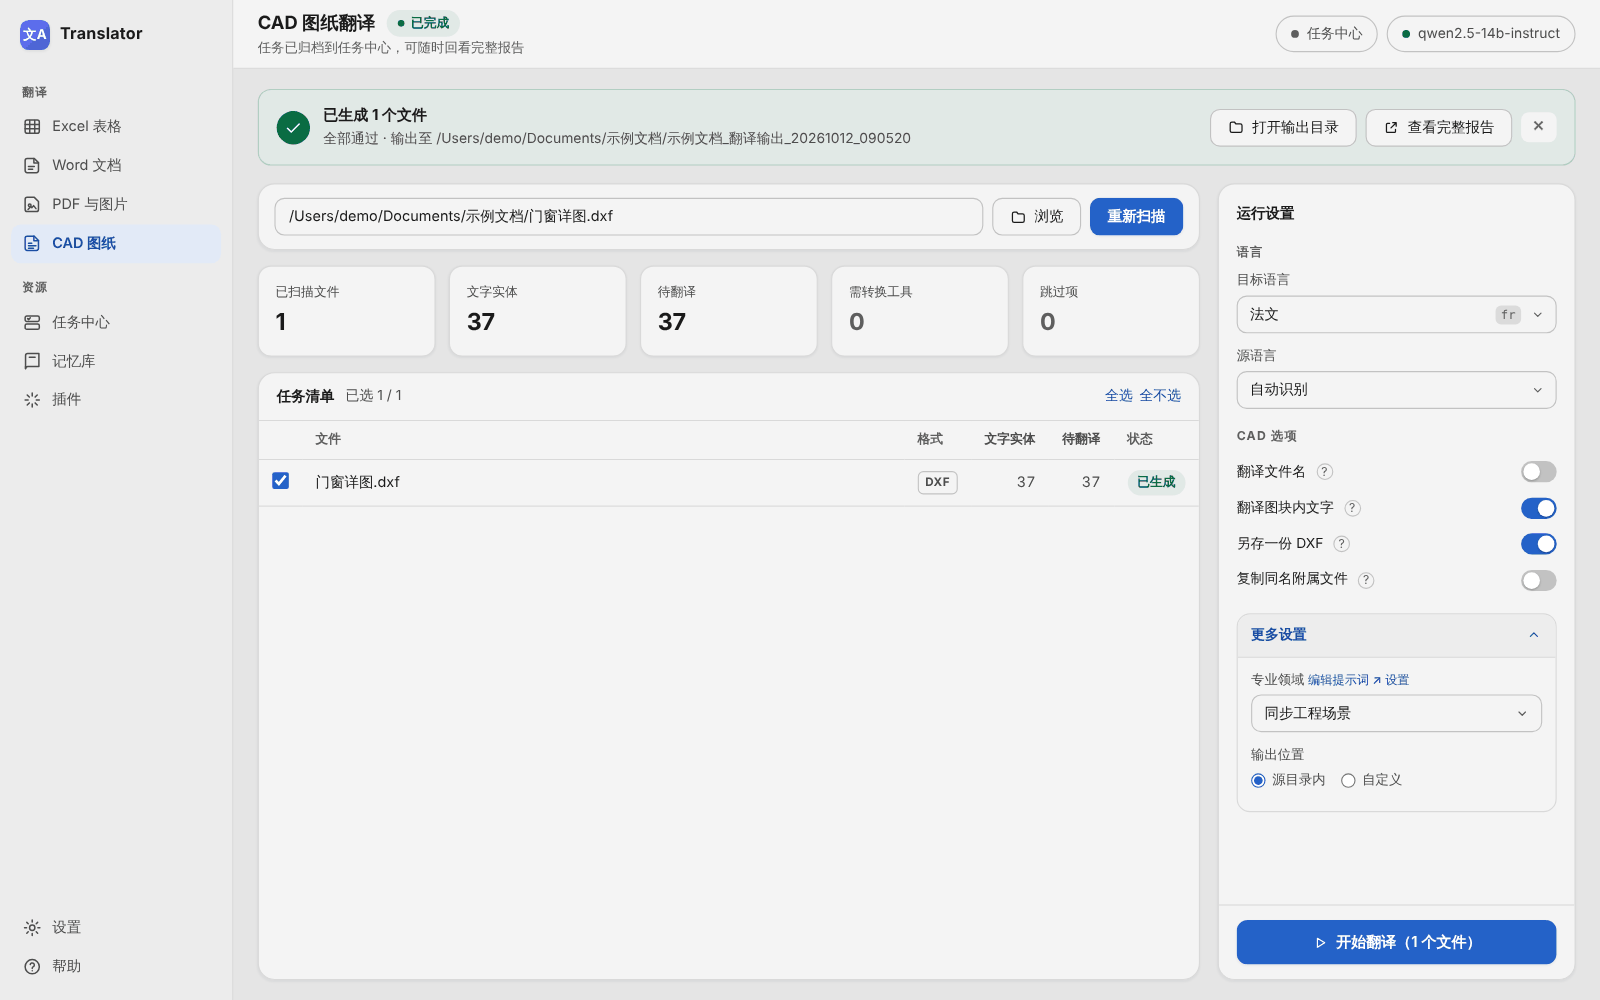
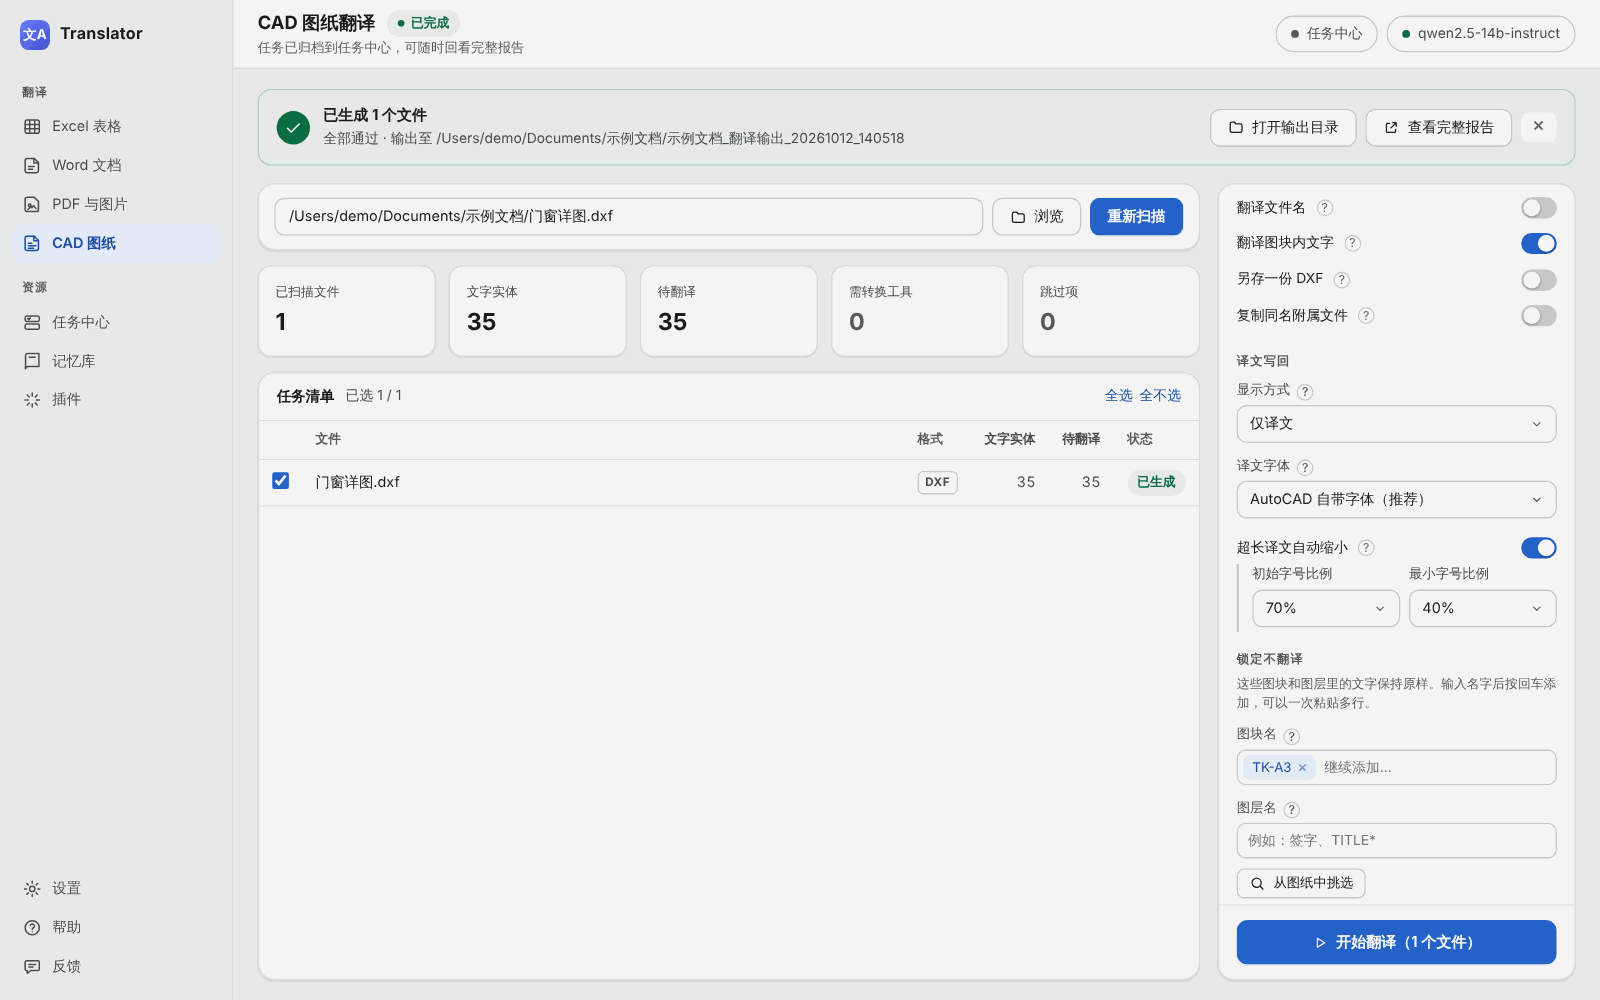
README：补充反馈页、提示词设置和 CAD 译文写回选项，重拍界面截图
Claude-Session: https://claude.ai/code/session_01GeosvTyXvaoV46yqHuGajY

diff --git a/README.md b/README.md
@@ -58,11 +58,25 @@ Each page is redrawn in the target language by an image model, preserving the or
 
 ### CAD 图纸 · CAD drawings
 
-DXF 文件可直接翻译；DWG 文件需先在「插件」页面配置 ODA File Converter。图块内的文字可一并翻译。GBK 等中文编码的旧图纸可正确读写，旧版 CAD 以特殊编码保存的中文也能正确识别。
+DXF 文件可直接翻译；DWG 文件需先在「插件」页面配置 ODA File Converter，格式转换在任务中进行。图块内的文字可一并翻译。GBK 等中文编码的旧图纸可正确读写，旧版 CAD 以特殊编码保存的中文也能正确识别。
 
-DXF files are translated directly. DWG files require ODA File Converter, configured on the Plugins page. Text inside blocks can be included. Legacy drawings in GBK or other Chinese encodings are read and written correctly, including Chinese text saved in the special encoding used by older CAD software.
+译文写回方式可在页面右侧「译文写回」中设置：
 
-![CAD 翻译完成 · CAD translation completed](docs/images/readme/app-cad.png)
+- 显示方式：仅译文、原文在上译文在下，或译文在上原文在下；双语时译文与原文位于同一图层。
+- 译文字体：默认使用 AutoCAD 自带字体写入译文，在其他电脑上打开也能正常显示；也可沿用原文字体。
+- 超长译文自动缩小：译文较长、会压到相邻文字时，先收窄字宽，再缩小字号（默认先缩至 70%，最小 40%）；仍放不下的列入报告供复核。
+- 锁定不翻译：指定图框、标题栏等图块和图层，其中的文字保持原样；名称可直接输入，也可从图纸中挑选。
+
+DXF files are translated directly. DWG files require ODA File Converter, configured on the Plugins page; conversion runs as part of the job. Text inside blocks can be included. Legacy drawings in GBK or other Chinese encodings are read and written correctly, including Chinese text saved in the special encoding used by older CAD software.
+
+How translations are written back is set under Writing translations on the right of the page:
+
+- Display: Translation only, Source above translation, or Translation above source. In bilingual mode, the translation is placed on the same layer as the source.
+- Translation font: translations are written in AutoCAD's built-in fonts by default, so they display correctly on other computers; the original font can be kept instead.
+- Auto-shrink long translations: when a translation would overlap neighboring text, it is first narrowed and then reduced in size (to 70% first, down to 40% at most). Anything that still does not fit is listed in the report for review.
+- Do not translate: text in specified blocks and layers, such as title blocks and frames, is left unchanged. Names can be typed in or picked from the drawings.
+
+![CAD 翻译完成，右侧为译文写回选项 · CAD translation completed, with the write-back options on the right](docs/images/readme/app-cad.png)
 
 ![CAD 原图（中文） · Original drawing (Chinese)](docs/images/readme/result-cad-original.png)
 
@@ -88,23 +102,45 @@ Jobs of different types can run concurrently. Any job can be stopped (PDF and CA
 
 ![任务中心（深色模式） · Task center in dark mode](docs/images/readme/app-tasks-dark.png)
 
+### 反馈 · Feedback
+
+侧栏的「反馈」页用于报告问题或提出建议。可填写描述并直接粘贴截图，按需附带系统与版本信息、所选任务的日志、原文件和译文（原文件和译文默认不附带）；失败的任务也可在任务中心通过「反馈此问题」进入。发送前可查看将发送的全部内容，发送时显示上传进度，也可改为保存为 ZIP 文件。日志中的 API 密钥和文件路径已去除，随反馈上传的文件保存 90 天后自动删除。
+
+The Feedback page in the sidebar is used to report problems or suggest improvements. A description can be entered and screenshots pasted directly; system and version information, logs of selected tasks, source files and translations can be attached as needed (source files and translations are not attached by default). A failed job can also be reported from the task center with Report this problem. Everything that will be sent can be reviewed beforehand, upload progress is shown while sending, and the package can be saved as a ZIP file instead. API keys and file paths are removed from logs, and uploaded files are deleted automatically after 90 days.
+
+![反馈页 · Feedback page](docs/images/readme/app-feedback.png)
+
 ### 外观 · Appearance
 
 界面提供浅色与深色模式，可跟随系统自动切换。在「设置 → 外观与语言」中可选择五套配色方案：素雅灰（默认）、暖调纸感、冷调柔光、青瓷和琥珀护眼；浅色和深色模式可分别选用不同的方案，例如白天使用素雅灰、夜间使用琥珀护眼。
 
 Light and dark modes are available and can follow the system setting. Five color schemes can be selected under Settings → Appearance & language: Neutral grey (default), Warm paper, Soft cool, Celadon and Amber comfort. Light and dark mode can each use a different scheme, for example Neutral grey by day and Amber comfort at night.
 
-### 语言与领域 · Languages and domains
+### 语言与提示词 · Languages and prompts
 
-内置 59 种语言，支持自动识别源语言及自定义目标语言。提供工程、资料管理、行政办公等领域的预设提示词，也可自定义提示词。
+内置 59 种语言，支持自动识别源语言及自定义目标语言。
 
-59 built-in languages, automatic source-language detection and custom target languages are supported. Preset prompts are provided for engineering, document control and general administration, and custom prompts can be defined.
+各翻译页面提供「自动识别场景」开关，默认开启：翻译前先通读一遍文档，判断文档类型和所属专业，再据此理解单独出现的短词，例如图纸门号中的「甲」不会被译成合同中的「甲方」。开启后每份文件多调用一次模型。
+
+提示词由固定的内置规则和可选的「补充要求」组成：内置规则每次都会发送，补充要求只追加在其后，不会替换内置规则。补充要求可在「设置 → 翻译参数」中按 Excel、Word、CAD 分别设置，并可导出和导入。
+
+59 built-in languages, automatic source-language detection and custom target languages are supported.
+
+Each translation page has an Auto-detect switch, on by default. Before translation, the document is read once to identify its type and field, and short standalone words are interpreted accordingly; for example, 甲 in a drawing's door number is not translated as "Party A" as in a contract. With the switch on, each file uses one additional model request.
+
+Prompts consist of fixed built-in rules and optional Extra instructions. The built-in rules are always sent, and extra instructions are only appended after them, never replacing them. Extra instructions are set separately for Excel, Word and CAD under Settings → Translation options, and can be exported and imported.
+
+![提示词设置：内置规则、自动识别场景与补充要求 · Prompt settings: built-in rules, Auto-detect and extra instructions](docs/images/readme/app-prompts.png)
 
 ## 模型服务 · Model services
 
 在「设置 → 模型服务」中填写服务商、模型名称和 API 密钥，测试连接成功后即可使用。文档翻译、PDF 与图片翻译、记忆库清洗可分别配置不同的模型。
 
 Configure the provider, model name and API key under Settings → Models and test the connection before use. Document translation, PDF and image translation, and memory cleanup can each use a different model.
+
+服务暂时出错或超时时，该批内容会自动重新发送，仍失败时改用备用连接。Excel 和 CAD 的重发次数可在「设置 → 翻译参数」中调整（0 至 5 次，默认 2 次）。API 密钥无效或额度用尽时，任务立即停止并说明原因。
+
+If the service briefly fails or times out, the batch is resent automatically and moves to a backup connection if it still fails. For Excel and CAD, the number of resends can be set under Settings → Translation options (0 to 5, default 2). If the API key is rejected or the quota is exhausted, the job stops immediately with an explanation.
 
 | | 中文 | English |
 |---|---|---|
@@ -120,19 +156,25 @@ Files are read and written locally. Only the text to be translated (page images 
 
 ## V10.0.0 主要更新 · What's new in V10.0.0
 
-- 新增 CAD 图纸翻译，操作流程与 Excel、Word、PDF 一致
+- 新增 CAD 图纸翻译，操作流程与 Excel、Word、PDF 一致；可设置译文显示方式、译文字体、超长译文自动缩小及锁定不翻译的图块和图层
+- 新增「自动识别场景」：翻译前先通读文档，按文档类型理解单独出现的短词
+- 提示词改为固定的内置规则加可选的补充要求；原有的三个场景预设已删除，升级时旧设置自动迁移
+- 侧栏新增「反馈」页，可附带截图、日志和文件，发送前可查看全部内容
 - 新增英语和法语界面，可在「设置 → 外观与语言」中切换
 - 新增五套配色方案（素雅灰、暖调纸感、冷调柔光、青瓷、琥珀护眼），浅色与深色模式可分别选择
 - 统一界面、运行日志、错误信息和报告中的用语，不再出现程序内部术语
-- API 密钥无效或额度用尽时，任务立即停止并说明原因；持续限流时，先保存已完成的部分
+- API 密钥无效或额度用尽时，任务立即停止并说明原因；Excel 和 CAD 的失败重试次数可调整；持续限流时，先保存已完成的部分
 
 <!-- English -->
 
-- CAD drawing translation, with the same workflow as Excel, Word and PDF
+- CAD drawing translation, with the same workflow as Excel, Word and PDF; translation display, translation font, auto-shrinking of long translations and blocks and layers to leave untranslated can be set
+- Auto-detect: the document is read once before translation, and short standalone words are interpreted according to the document type
+- Prompts now consist of fixed built-in rules plus optional extra instructions; the three former scene presets have been removed, and existing settings are migrated automatically on upgrade
+- A new Feedback page in the sidebar, with screenshots, logs and files attachable and everything reviewable before sending
 - English and French interface, selectable under Settings → Appearance & language
 - Five color schemes (Neutral grey, Warm paper, Soft cool, Celadon and Amber comfort), selectable separately for light and dark mode
 - Consistent terminology across the interface, run log, error messages and reports, without internal technical terms
-- Jobs stop immediately with an explanation when the API key is rejected or the quota is exhausted; under sustained rate limiting, completed work is saved first
+- Jobs stop immediately with an explanation when the API key is rejected or the quota is exhausted; the number of retries for Excel and CAD can be adjusted; under sustained rate limiting, completed work is saved first
 
 详见[发布页面](https://github.com/KlaraGraff/XL_Translator/releases/latest)及 [CHANGELOG](docs/CHANGELOG.md)。For details, see the [release page](https://github.com/KlaraGraff/XL_Translator/releases/latest) and the [CHANGELOG](docs/CHANGELOG.md).
 
